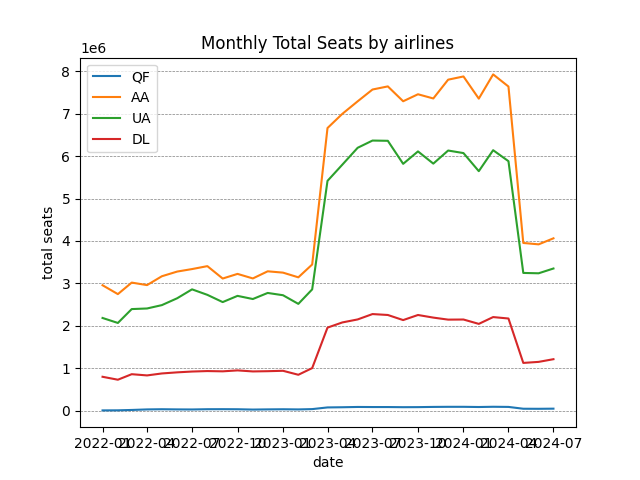
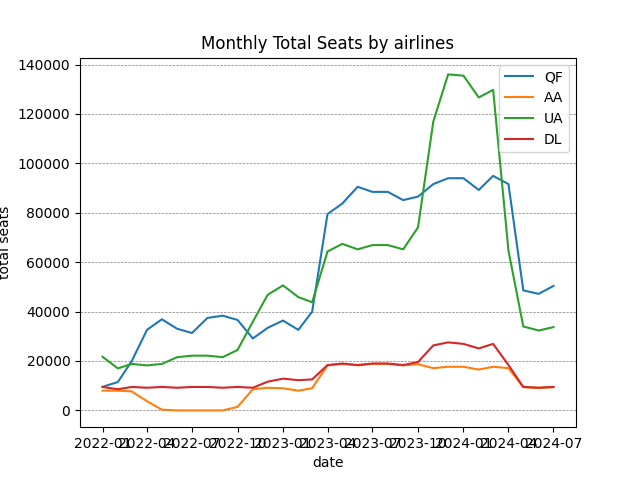
new plot

diff --git a/trytry.py b/trytry.py
@@ -3,6 +3,7 @@ import pandas as pd
 from sqlalchemy import create_engine, text
 from sqlalchemy import MetaData
 import matplotlib.pyplot as plt
+from matplotlib import ticker
 
 # # Define your PostgreSQL database connection
 db_uri = 'postgresql://student003:chihrusvfnihdipp@dataviation-database-1.chl8zbfpbhhh.ap-southeast-2.rds.amazonaws.com/dataviation_tutorial'
@@ -64,10 +65,10 @@ plt.savefig('avg_yieldAL.png')
 plt.show()
 
 
-am_df = pd.read_sql_query(text("SELECT DISTINCT ON (DATE_TRUNC('month', \"Year-Month-Day\")) DATE_TRUNC('month', \"Year-Month-Day\") AS month, SUM(\"Seats\") as qf FROM cirium_schedule_northamerica WHERE \"Year-Month-Day\">= '2022-01-01' AND \"Orig\" IN ('LAX', 'SFO', 'DFW', 'IAH') AND \"Stop-1 Airport\" is null AND \"Op Al\" IN ('QF') GROUP BY \"Year-Month-Day\" LIMIT 10000;"), conn)
-am_df1 = pd.read_sql_query(text("SELECT DISTINCT ON (DATE_TRUNC('month', \"Year-Month-Day\")) DATE_TRUNC('month', \"Year-Month-Day\") AS month, SUM(\"Seats\") as aa FROM cirium_schedule_northamerica WHERE \"Year-Month-Day\">= '2022-01-01' AND \"Orig\" IN ('LAX', 'SFO', 'DFW', 'IAH') AND \"Stop-1 Airport\" is null AND \"Op Al\" IN ('AA') GROUP BY \"Year-Month-Day\" LIMIT 10000;"), conn)
-am_df2 = pd.read_sql_query(text("SELECT DISTINCT ON (DATE_TRUNC('month', \"Year-Month-Day\")) DATE_TRUNC('month', \"Year-Month-Day\") AS month, SUM(\"Seats\") as ua FROM cirium_schedule_northamerica WHERE \"Year-Month-Day\">= '2022-01-01' AND \"Orig\" IN ('LAX', 'SFO', 'DFW', 'IAH') AND \"Stop-1 Airport\" is null AND \"Op Al\" IN ('UA') GROUP BY \"Year-Month-Day\" LIMIT 10000;"), conn)
-am_df3 = pd.read_sql_query(text("SELECT DISTINCT ON (DATE_TRUNC('month', \"Year-Month-Day\")) DATE_TRUNC('month', \"Year-Month-Day\") AS month, SUM(\"Seats\") as dl FROM cirium_schedule_northamerica WHERE \"Year-Month-Day\">= '2022-01-01' AND \"Orig\" IN ('LAX', 'SFO', 'DFW', 'IAH') AND \"Stop-1 Airport\" is null AND \"Op Al\" IN ('DL') GROUP BY \"Year-Month-Day\" LIMIT 10000;"), conn)
+am_df = pd.read_sql_query(text("SELECT DISTINCT ON (DATE_TRUNC('month', \"Year-Month-Day\")) DATE_TRUNC('month', \"Year-Month-Day\") AS month, SUM(\"Seats\") as qf FROM cirium_schedule_northamerica WHERE \"Year-Month-Day\">= '2022-01-01' AND \"Orig\" IN ('LAX', 'SFO', 'DFW', 'IAH') AND \"Dest\" IN ('SYD', 'MEL', 'BNE') AND \"Stop-1 Airport\" is null AND \"Op Al\" IN ('QF') GROUP BY \"Year-Month-Day\" LIMIT 10000;"), conn)
+am_df1 = pd.read_sql_query(text("SELECT DISTINCT ON (DATE_TRUNC('month', \"Year-Month-Day\")) DATE_TRUNC('month', \"Year-Month-Day\") AS month, SUM(\"Seats\") as aa FROM cirium_schedule_northamerica WHERE \"Year-Month-Day\">= '2022-01-01' AND \"Orig\" IN ('LAX', 'SFO', 'DFW', 'IAH') AND \"Dest\" IN ('SYD', 'MEL', 'BNE') AND \"Stop-1 Airport\" is null AND \"Op Al\" IN ('AA') GROUP BY \"Year-Month-Day\" LIMIT 10000;"), conn)
+am_df2 = pd.read_sql_query(text("SELECT DISTINCT ON (DATE_TRUNC('month', \"Year-Month-Day\")) DATE_TRUNC('month', \"Year-Month-Day\") AS month, SUM(\"Seats\") as ua FROM cirium_schedule_northamerica WHERE \"Year-Month-Day\">= '2022-01-01' AND \"Orig\" IN ('LAX', 'SFO', 'DFW', 'IAH') AND \"Dest\" IN ('SYD', 'MEL', 'BNE') AND \"Stop-1 Airport\" is null AND \"Op Al\" IN ('UA') GROUP BY \"Year-Month-Day\" LIMIT 10000;"), conn)
+am_df3 = pd.read_sql_query(text("SELECT DISTINCT ON (DATE_TRUNC('month', \"Year-Month-Day\")) DATE_TRUNC('month', \"Year-Month-Day\") AS month, SUM(\"Seats\") as dl FROM cirium_schedule_northamerica WHERE \"Year-Month-Day\">= '2022-01-01' AND \"Orig\" IN ('LAX', 'SFO', 'DFW', 'IAH') AND \"Dest\" IN ('SYD', 'MEL', 'BNE') AND \"Stop-1 Airport\" is null AND \"Op Al\" IN ('DL') GROUP BY \"Year-Month-Day\" LIMIT 10000;"), conn)
 
 print(am_df)
 print(am_df1)
@@ -87,3 +88,5 @@ plt.xlabel('date')
 plt. ylabel('total seats')
 plt. grid(axis= 'y', color= 'grey', linestyle = '--', linewidth = 0.5)
 plt.savefig('sum_seatsAL.png')
+plt.ticklabel_format(style = 'Plain', axis = 'y')
+plt.show()

diff --git a/DBanalysis/test3.py b/DBanalysis/test3.py
@@ -2,6 +2,7 @@ import pandas as pd
 from sqlalchemy import create_engine, text
 from sqlalchemy import MetaData
 import matplotlib.pyplot as plt
+from matplotlib import ticker
 
 # # Define your PostgreSQL database connection
 db_uri = 'postgresql://student003:chihrusvfnihdipp@dataviation-database-1.chl8zbfpbhhh.ap-southeast-2.rds.amazonaws.com/dataviation_tutorial'
@@ -62,6 +63,7 @@ plt.xlabel('date')
 plt.ylabel('total pax')
 plt.grid(axis = 'y', color = 'grey', linestyle = '--', linewidth = 0.5)
 plt.savefig('sum_pax.png')
+plt.show()
 
 am_df.plot(kind = 'line', x = 'month', y= 'yield', c = '#294173', legend = False)
 plt.title('Monthly Average Yields')
@@ -69,9 +71,10 @@ plt.xlabel('date')
 plt.ylabel('Average Yields')
 plt.grid(axis = 'y', color = 'grey', linestyle = '--', linewidth = 0.5)
 plt.savefig('avg_yields.png')
+plt.show()
 
 
-am_df = pd.read_sql_query(text("SELECT DISTINCT ON (DATE_TRUNC('month', \"Year-Month-Day\")) DATE_TRUNC('month', \"Year-Month-Day\") AS month, SUM(\"Seats\") as seats FROM cirium_schedule_northamerica WHERE \"Year-Month-Day\">= '2022-01-01' AND \"Orig\" IN ('LAX', 'SFO', 'DFW', 'IAH') AND \"Stop-1 Airport\" is null GROUP BY \"Year-Month-Day\" LIMIT 30000;"), conn)
+am_df = pd.read_sql_query(text("SELECT DISTINCT ON (DATE_TRUNC('month', \"Year-Month-Day\")) DATE_TRUNC('month', \"Year-Month-Day\") AS month, SUM(\"Seats\") as seats FROM cirium_schedule_northamerica WHERE \"Year-Month-Day\">= '2022-01-01' AND \"Orig\" IN ('LAX', 'SFO', 'DFW', 'IAH') AND \"Dest\" IN ('SYD', 'MEL', 'BNE') AND \"Stop-1 Airport\" is null GROUP BY \"Year-Month-Day\" LIMIT 30000;"), conn)
 
 am_df.plot(kind = 'line', x = 'month', y= 'seats', c = '#294173', legend = False)
 plt.title('Monthly Total Seats')
@@ -79,26 +82,12 @@ plt.xlabel('month-year')
 plt.ylabel('Total Seats')
 plt.grid(axis = 'y', color = 'grey', linestyle = '--', linewidth = 0.5)
 plt.savefig('sum_seats.png')
+plt.ticklabel_format(style = 'Plain', axis = 'y')
+plt.show()
 
 
 
-am_df = pd.read_sql_query(text("SELECT DISTINCT ON (DATE_TRUNC('month', \"Year-Month-Day\")) DATE_TRUNC('month', \"Year-Month-Day\") AS month, SUM(\"Total Pax\") as qf FROM cirium_traffic_northamerica WHERE \"Year-Month-Day\">= '2022-01-01' AND \"Orig\" IN ('YVR','LAX','IAH','DFW','SFO','JFK','SCL') AND \"Stop-1 Airport\" is not null AND \"Op Al\" IN ('QF') AND \"Total Pax\" >0 GROUP BY \"Year-Month-Day\" LIMIT 10000;"), conn)
-am_df1 = pd.read_sql_query(text("SELECT DISTINCT ON (DATE_TRUNC('month', \"Year-Month-Day\")) DATE_TRUNC('month', \"Year-Month-Day\") AS month, SUM(\"Total Pax\") as va FROM cirium_traffic_northamerica WHERE \"Year-Month-Day\">= '2022-01-01' AND \"Orig\" IN ('YVR','LAX','IAH','DFW','SFO','JFK','SCL') AND \"Stop-1 Airport\" is not null AND \"Op Al\" IN ('VA') AND \"Total Pax\" >0 GROUP BY \"Year-Month-Day\" LIMIT 10000;"), conn)
-# ax = am_df.plot(kind = 'line', x='month', y='qf', c= 'b', legend = False)
-# am_df1.plot(ax=ax)
-plt.title('Monthly Total PAX by airlines')
-plt.xlabel('date')
-plt.ylabel('total pax')
-plt.grid(axis = 'y', color = 'grey', linestyle = '--', linewidth = 0.5)
-plt.savefig('sum_qf.png')
-am_df1.plot(kind = 'line', x='month', y='va',c= 'g', legend = False)
-plt.title('Monthly Total PAX by airlines')
-plt.xlabel('date')
-plt.ylabel('total pax')
-plt.grid(axis = 'y', color = 'grey', linestyle = '--', linewidth = 0.5)
-plt.savefig('sum_va.png')
-print(am_df)
-print(am_df1)
+
 
 qry = """SELECT
     DATE_TRUNC('month', \"Year-Month-Day\") as month,
